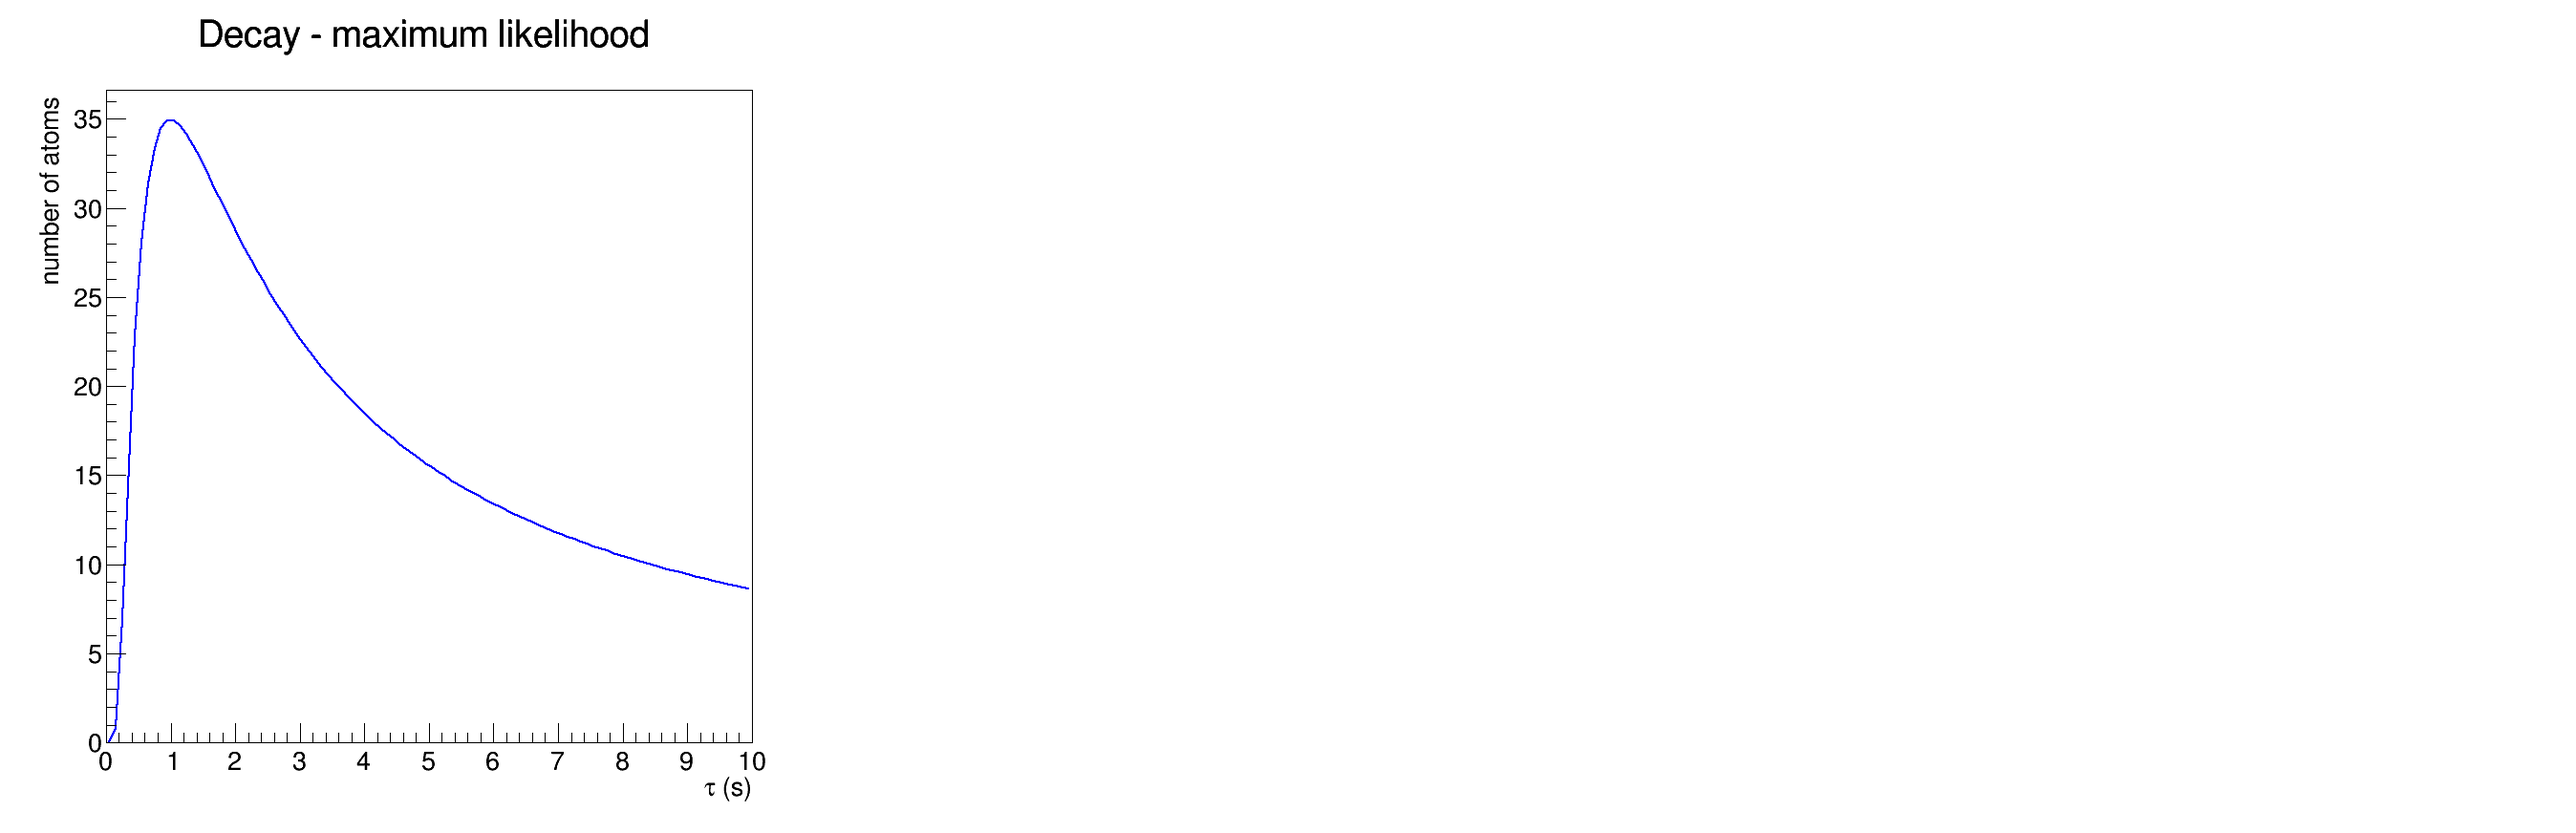
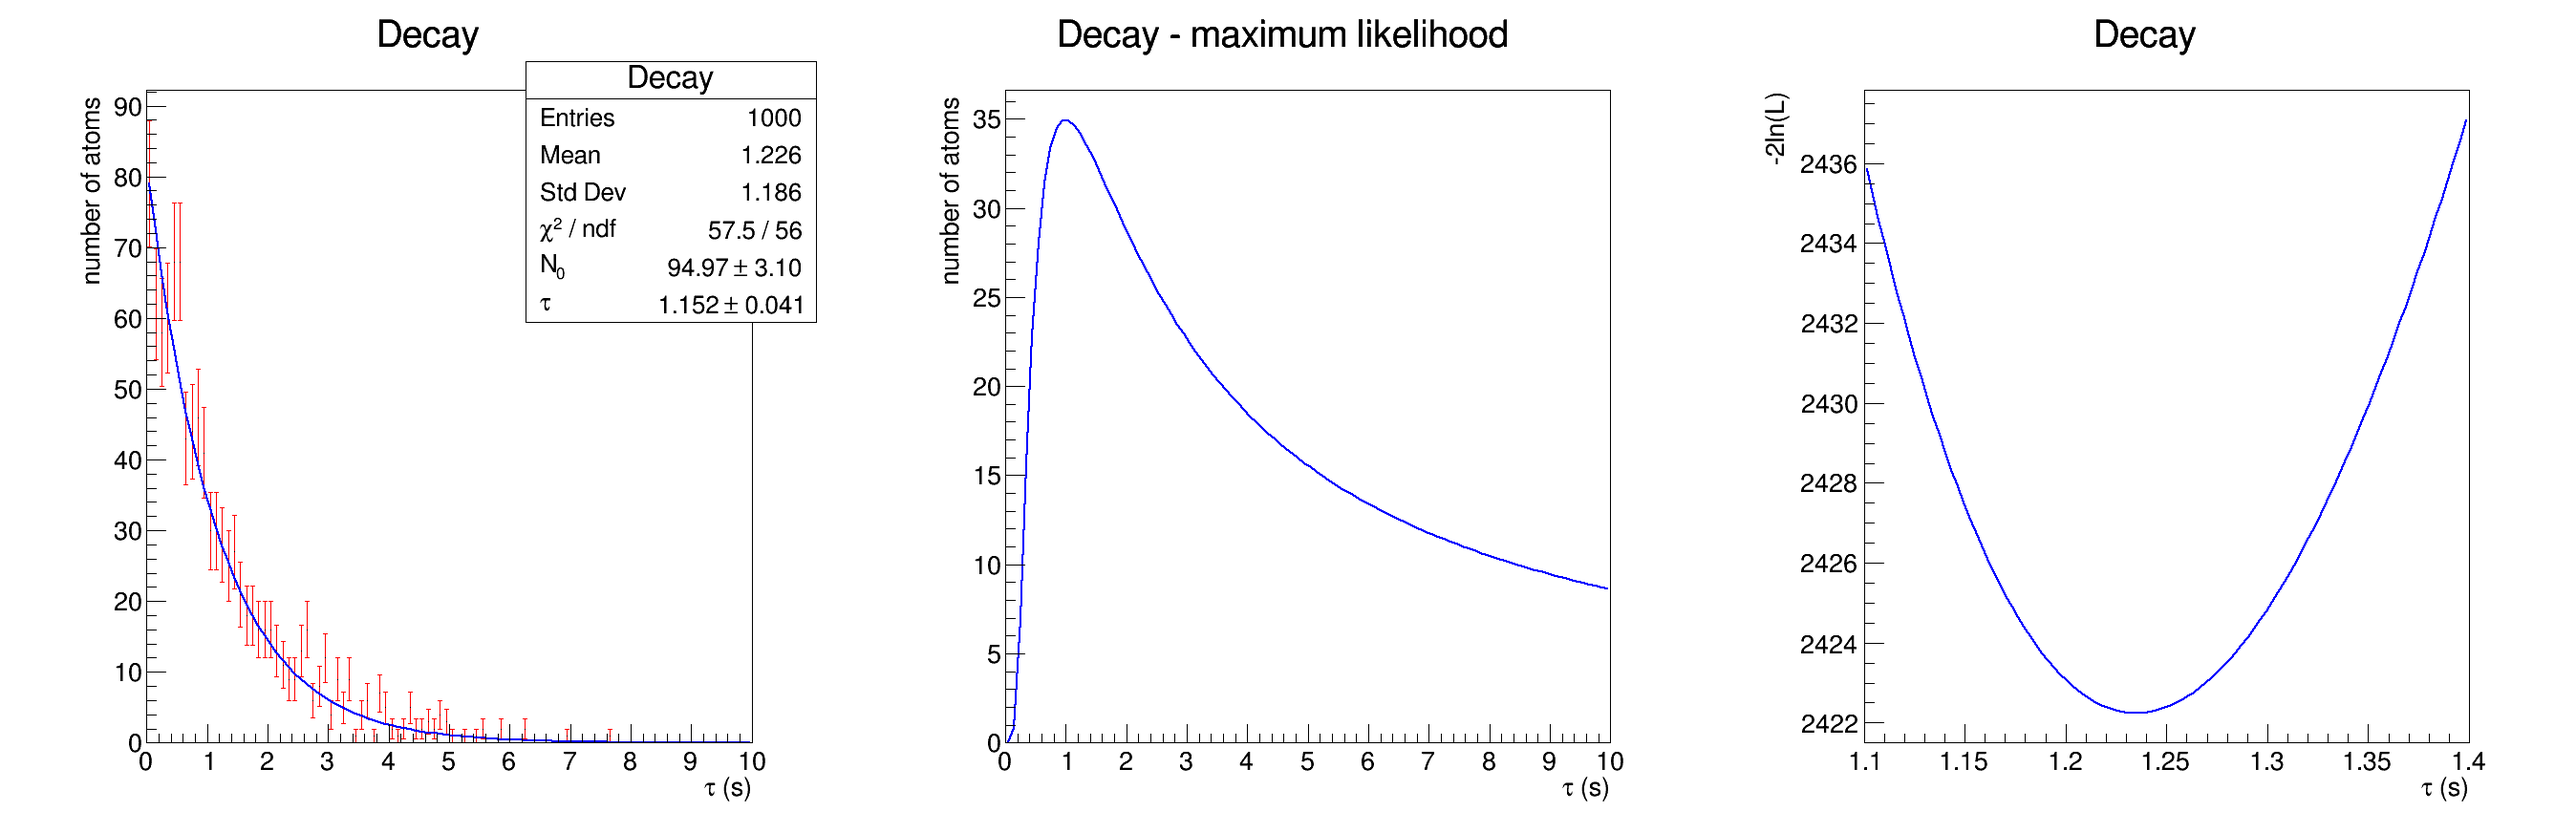
Add Vjezbe_9 task 4

diff --git a/Vjezbe_9/Analyzer.cpp b/Vjezbe_9/Analyzer.cpp
@@ -11,29 +11,6 @@ using namespace std;
 
 void Analyzer::Loop()
 {
-//   In a ROOT session, you can do:
-//      root> .L Analyzer.C
-//      root> Analyzer t
-//      root> t.GetEntry(12); // Fill t data members with entry number 12
-//      root> t.Show();       // Show values of entry 12
-//      root> t.Show(16);     // Read and show values of entry 16
-//      root> t.Loop();       // Loop on all entries
-//
-
-//     This is the loop skeleton where:
-//    jentry is the global entry number in the chain
-//    ientry is the entry number in the current Tree
-//  Note that the argument to GetEntry must be:
-//    jentry for TChain::GetEntry
-//    ientry for TTree::GetEntry and TBranch::GetEntry
-//
-//       To read only selected branches, Insert statements like:
-// METHOD1:
-//    fChain->SetBranchStatus("*",0);  // disable all branches
-//    fChain->SetBranchStatus("branchname",1);  // activate branchname
-// METHOD2: replace line
-//    fChain->GetEntry(jentry);       //read all branches
-//by  b_branchname->GetEntry(ientry); //read only this branch
    if (fChain == 0) return;
 
    Long64_t nentries = fChain->GetEntriesFast();
@@ -49,7 +26,7 @@ void Analyzer::Loop()
 
 void Analyzer::PlotHistogram(TString path)
 {
-	double tSum, tau;	
+	tSum = 0.0;
 	
 	TTree *tree = new TTree;
 	TFile *f = (TFile*)gROOT->GetListOfFiles()->FindObject(path);
@@ -75,30 +52,44 @@ void Analyzer::PlotHistogram(TString path)
 		
 		histo->Fill(t);
 		tSum += t;
+		
+		N = nentries;
 	}
-	
-	tau = tSum / nentries;
-	cout << "#tau = " << tau << endl;
 }
 
-// not used in task3
 void Analyzer::Drawing()
 {
 	TCanvas* c = new TCanvas("c", "c", 2700, 900);
 	c->Divide(3);
-	
-	gPad->SetLeftMargin(0.15);
 	gStyle->SetOptFit();
 	
-	c->cd(1);
+	c->cd(1);						// 
+	gPad->SetLeftMargin(0.15);
 	
 	func->SetLineColor(kBlue);
-	func->SetTitle("Decay - maximum likelihood; #tau (s); number of atoms");
 	func->Draw();
 	
-	c->cd(2);
+	histo->SetLineColor(kRed);
+	histo->SetTitle("Decay; #tau (s); number of atoms");
+	histo->Draw("p E1 X0");
+	histo->Fit(func);
 	
-	c->cd(3);
+	c->cd(2);						// 
+	gPad->SetLeftMargin(0.15);
+	
+	func2->SetLineColor(kBlue);
+	func2->SetTitle("Decay - maximum likelihood; #tau (s); number of atoms");
+	func2->Draw();
+	
+	c->cd(3);						// 
+	gPad->SetLeftMargin(0.15);
+	
+	func4->SetParameters(N,tSum);
+	func4->SetLineColor(kBlue);
+	func4->SetTitle("Decay; #tau (s); -2ln(L)");
+	double min = func4->GetMinimumX();
+	cout << "minimum is " << min << endl;
+	func4->Draw();
 	
 	c->SaveAs("Likelihood.png");
 }

diff --git a/Vjezbe_9/Analyzer.h b/Vjezbe_9/Analyzer.h
@@ -13,6 +13,7 @@
 #include <TFile.h>
 #include <TF1.h>
 #include <TH1F.h>
+#include <TMath.h>
 
 // Header file for the classes stored in the TTree if any.
 
@@ -30,7 +31,12 @@ public :
    TBranch        *b_t;   //!
 
    TF1 *func;
+   TF1 *func2;
+   TF1 *func4;
    TH1F * histo;
+
+   int N;
+   double tSum;
 
    Analyzer(TTree *tree=0);
    virtual ~Analyzer();
@@ -65,7 +71,12 @@ Analyzer::Analyzer(TTree *tree) : fChain(0)
    Init(tree);
 */
 
-   func = new TF1("func", "94.97*exp(-1/x)/x" ,0.0, 10.0);
+   func = new TF1("func", "[0]*exp(-x/[1])/[1]" ,0.0, 10.0);
+   func->SetParNames("N_{0}","#tau");
+   func->SetParameters(100,1);
+   func2 = new TF1("func2", "94.97*exp(-1/x)/x" ,0.0, 10.0);
+   func4 = new TF1("func4", "2*([0]*TMath::Log(x)+[1]/x)" ,1.1, 1.4);
+   func4->SetParNames("nentries","tSum");
    histo = new TH1F("Decay", "Decay", 100, 0.0, 10.0);
 }
 

diff --git a/Vjezbe_9/analyze.cpp b/Vjezbe_9/analyze.cpp
@@ -17,7 +17,7 @@ int main()
 	TString path = "/home/public/data/Lifetime/Lifetime.root";
 	thing->PlotHistogram(path);
 	
-	//thing->Drawing();
+	thing->Drawing();
 	
 	delete thing;
 	return 0;
